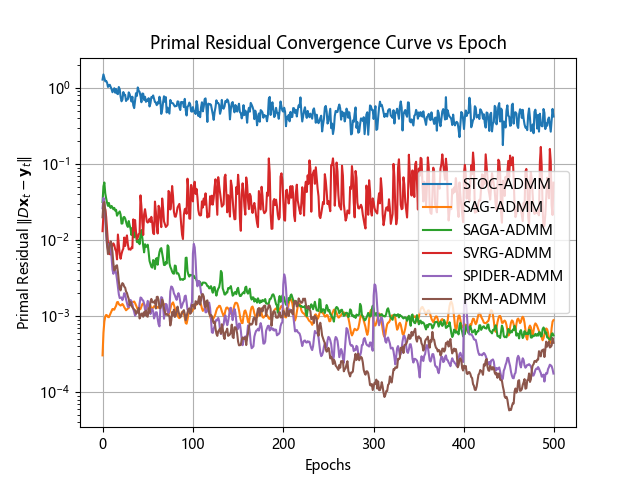
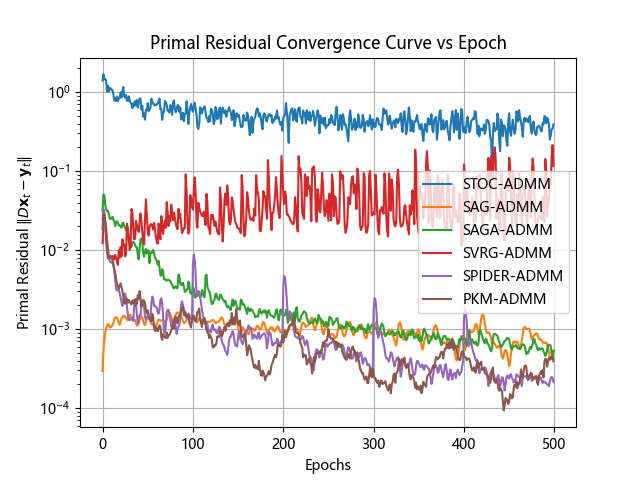
暂时保存当前修改

diff --git a/GGLR_ADMM_Experiments/main.py b/GGLR_ADMM_Experiments/main.py
@@ -43,7 +43,7 @@ saga_mu1 = 1e-3              # 默认：1e-3
 saga_mu2 = 1e-2             # 默认：1e-2
 saga_rho = 1.0              # 默认：1.0
 saga_step_size = 0.01       # 默认：0.01
-saga_batch_size = 1             # SAGA-ADMM批次大小，默认32
+saga_batch_size = 32             # SAGA-ADMM批次大小，默认32
 
 # SVRG-ADMM 参数
 svrg_mu1 = 1e-3              # 默认：1e-3
@@ -91,7 +91,7 @@ results = []
 
 # ======== 比较算法 ========
 algo_names = [
-    "STOC-ADMM", "SAG-ADMM","SAGA-ADMM",
+    "STOC-ADMM", "SAG-ADMM", "SAGA-ADMM",
     "SVRG-ADMM", "SPIDER-ADMM", "PKM-ADMM"
 ]
 
@@ -100,14 +100,14 @@ print(f"    按顺序依次比较算法："+tmp)
 
 # 运行算法并检查gap值
 
-# 1. STOC-ADMM
+# ---- STOC-ADMM ----
 res_stoc  = stochastic_admm(
     A, b, D, max_iter, p_star,
     mu1=stoc_mu1, mu2=stoc_mu2, rho=stoc_rho, step_size=stoc_step_size, batch_size=stoc_batch_size
 )
 results.append(res_stoc)
 
-# 2. SAG-ADMM
+# ---- SAG-ADMM ----
 res_sag = sag_admm(
     A, b, D, max_iter=max_iter, p_star=p_star,
     mu1=saga_mu1, mu2=saga_mu2, rho=saga_rho, step_size=saga_step_size, batch_size=sag_batch_size)
@@ -116,13 +116,14 @@ res_sag = sag_admm(
 # print("    SAG-ADMM gap 是否有NaN:", np.any(np.isnan(res_sag["gap"])))
 results.append(res_sag)
 
+# ---- SAGA-ADMM ----
 res_saga = saga_admm(
     A, b, D, max_iter, p_star,
     mu1=saga_mu1, mu2=saga_mu2, rho=saga_rho, step_size=sag_step_size
 )
 results.append(res_saga)
 
-# 3. SVRG-ADMM
+# ---- SVRG-ADMM ----
 res_svrg = svrg_admm(
     A, b, D, max_iter, p_star,
     mu1=svrg_mu1, mu2=svrg_mu2, rho=svrg_rho, step_size=svrg_step_size, batch_size=svrg_batch_size)
@@ -131,7 +132,7 @@ res_svrg = svrg_admm(
 # print("    SVRG-ADMM gap 是否有NaN:", np.any(np.isnan(res_svrg["gap"])))
 results.append(res_svrg)
 
-# 4. SPIDER-ADMM
+# ---- SPIDER-ADMM ----
 res_spider = spider_admm(
     A, b, D, max_iter=max_iter, p_star=p_star,
     mu1=spider_mu1, mu2=spider_mu2, rho=spider_rho, step_size=spider_step_size, batch_size=spider_batch_size)
@@ -140,19 +141,11 @@ res_spider = spider_admm(
 # print("    SPIDER-ADMM gap 是否有NaN:", np.any(np.isnan(res_spider["gap"])))
 results.append(res_spider)
 
-# 5. PKM-ADMM
+# ---- PKM-ADMM ----
 res_pkm = pkm_admm(
-    A, b, D,
-    mu1=pkm_mu1,
-    mu2=pkm_mu2,
-    rho=pkm_rho,
-    max_iter=max_iter,
-    step_size=pkm_step_size,
-    tau=pkm_tau,
-    varrho=pkm_varrho,
-    update_prob_p_t=pkm_update_prob,
-    batch_size=pkm_batch_size,
-    p_star=p_star
+    A, b, D, max_iter=max_iter, p_star=p_star,
+    mu1=pkm_mu1, mu2=pkm_mu2, rho=pkm_rho, step_size=pkm_step_size, batch_size=pkm_batch_size,
+    tau=pkm_tau, varrho=pkm_varrho, update_prob_p_t=pkm_update_prob
 )
 # print("PKM-ADMM gap 前10个值:", res_pkm["gap"][:10])
 # print("    PKM-ADMM gap 是否有inf:", np.any(np.isinf(res_pkm["gap"])))

diff --git a/GGLR_ADMM_Experiments/algorithms/sag_admm.py b/GGLR_ADMM_Experiments/algorithms/sag_admm.py
@@ -43,11 +43,6 @@ def sag_admm(A, b, D, max_iter=1000, p_star=0.0,
         # 对batch内的梯度取平均，得到当前batch的梯度估计
         grad_batch_mean = np.mean(grad_batch, axis=0)  # (d,)
 
-        # # 批量更新grad_table和avg_grad
-        # for idx in indices:
-        #     avg_grad = avg_grad - grad_table[idx]/n + grad_batch[np.where(idx == idx)[0][0]]/n
-        #     grad_table[idx] = grad_batch[np.where(idx == idx)[0][0]]
-
         # 3. 批量更新grad_table和avg_grad（核心修改部分）
         # 预先建立「样本索引→batch内位置」的映射，避免循环内多次np.where，提升效率
         index_to_pos = {sample_idx: pos for pos, sample_idx in enumerate(indices)}

diff --git a/GGLR_ADMM_Experiments/algorithms/saga_admm.py b/GGLR_ADMM_Experiments/algorithms/saga_admm.py
@@ -5,7 +5,7 @@ from scipy.special import expit
 
 def saga_admm(A, b, D, max_iter=1000, p_star=0.0,
               mu1 = 1e-3, mu2 = 1e-2, rho = 1.0,
-              step_size=0.01, batch_size=32):  # 新增batch_size参数，默认32
+              step_size=0.01, batch_size=32):
     """
     SAGA-ADMM求解GGLR问题，添加步长和batch_size参数
     :param A: 样本特征矩阵 (n_samples, n_features)

diff --git a/GGLR_ADMM_Experiments/README.md b/GGLR_ADMM_Experiments/README.md
@@ -10,7 +10,7 @@
 
 ```
 目标函数：
-min_{x,y} L(x) + (mu/2)||x||² + λ||y||₁ 
+min_{x,y} L(x) + (mu_1/2)||x||² + mu_2||y||₁ 
 s.t. Dx - y = 0
 其中 L(x) = (1/n)∑log(1+exp(-b_i a_i^T x)) 是逻辑回归损失
 ```
